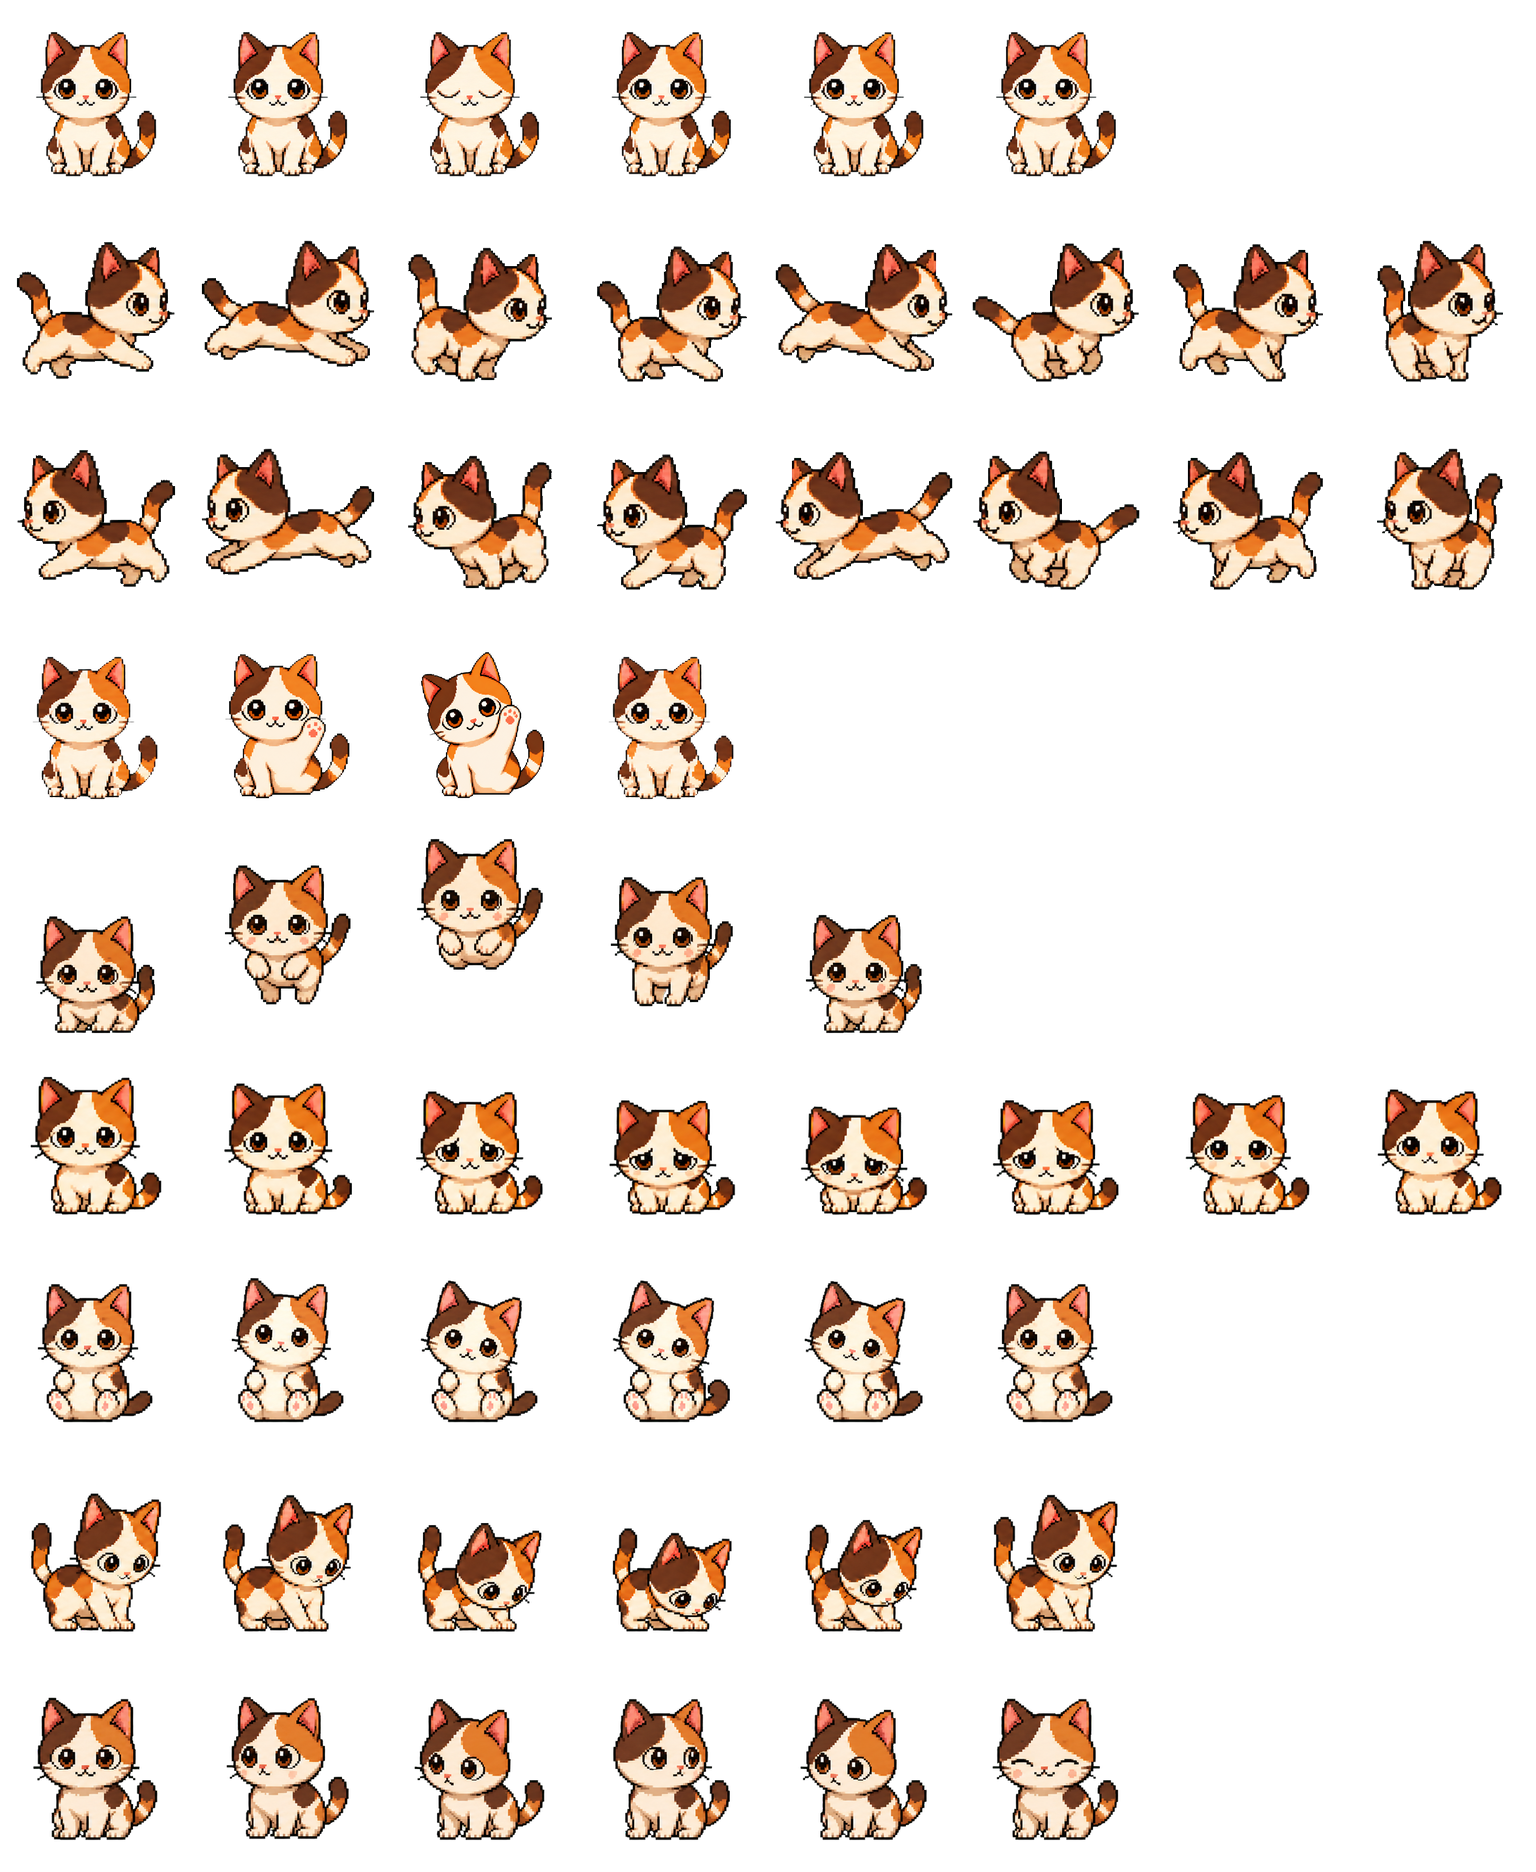
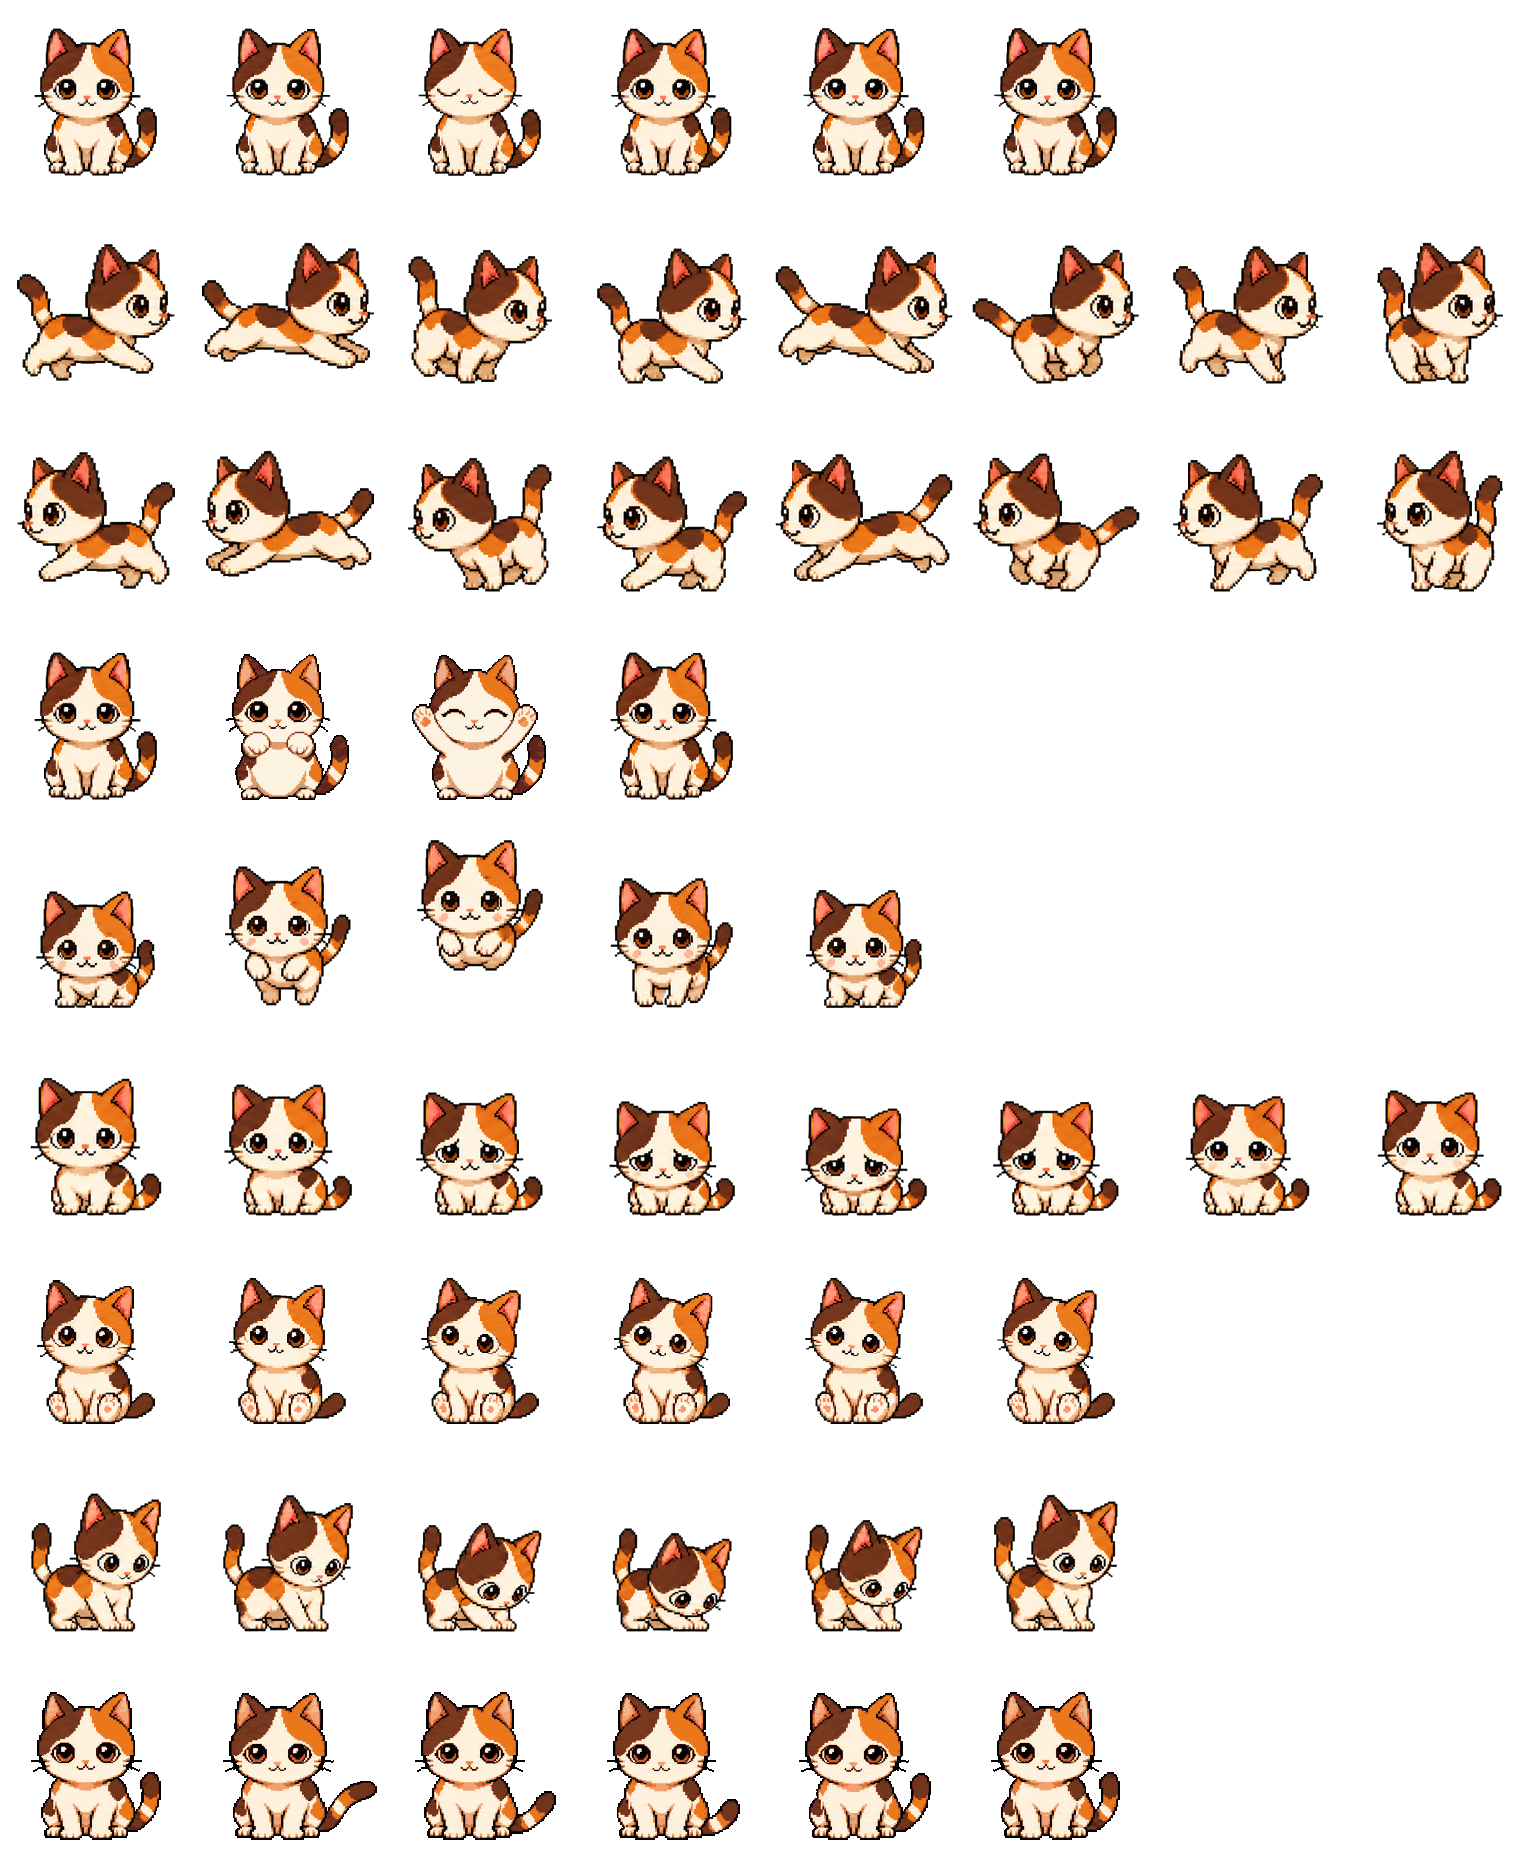
Give the built-in Mochi the v3 art and its extension rows
The built-in ran on the v2-era atlas while the finished v3 package sat outside
the repository. Both webp files here are now that package, byte for byte with
what Codex and Petdex read from ~/.codex/pets/mochi-v3: aligned baselines, one
palette across every row, and the redrawn waving and review rows.

The extension sheet comes with it, so the built-in stops borrowing for the three
states a Petdex sheet has no word for. It sleeps curled on the ground instead of
sitting upright, it hangs when carried, and it nods off before it walks away to
rest. Only `dragged`, `stretch` and `landing` are borrowed now, all deliberately.

Idle has to override the standard 1.10s. Its six frames are one long hold and a
blink, so the standard timing blinks the cat continuously; the package holds
frame zero for 1.2s and spends 0.5s blinking.

The manifest timings are transcribed because a built-in has no package directory
to read, so the test pins each track against the length the package declares,
and checks every extension frame lands on a cell that has art. The sheet has
five spare cells and a wrong index reads one of them silently -- no crash, no
warning, just a pet that plays nothing where it should sit down. Confirmed by
moving `sitting` four cells along, which the test catches.

diff --git a/Tests/RoamlingLogicTests/PetLogicTests.swift b/Tests/RoamlingLogicTests/PetLogicTests.swift
@@ -321,20 +321,60 @@ func petLogicTests() -> [LogicTest] {
                 )
             }
 
-            // A Codex pet never sleeps, sits down to rest, stretches, or gets
-            // picked up, so those are borrowed on purpose and reported as such.
-            // Resting borrows `idle`, not `waiting`: `waiting` means blocked on
-            // the user, and a drowsy pet is not asking for anything.
+            // The extension sheet draws what the nine-row contract has no word
+            // for, so the built-in authors these rather than borrowing.
+            try expect(pet.addressableFrameCount == 88, "extension sheet missing")
+            for (capability, name) in [
+                (PetCapability.sleep, "sleeping"),
+                (.sit, "sitting"),
+                (.caught, "caught"),
+                (.gaze, "gaze")
+            ] {
+                let resolved = pet.resolver.resolution(capability)
+                try expect(resolved.track?.name == name, "\(capability) took \(resolved)")
+                try expect(
+                    resolved.provenance == .authored,
+                    "\(capability) should be the extension sheet's own art"
+                )
+            }
+            // `sitting` is the row that forced a second extension row, so its
+            // frames prove the built-in addresses that row and not the first.
+            let sitting = try require(pet.tracks["sitting"])
+            try expect(sitting.frames.map(\.index) == Array(80...83))
+            try expect(!sitting.loops, "the nod plays once, then the pet walks off")
+            // Every extension frame has to land on a drawn cell. The sheet has
+            // five spare cells and a wrong index reads one of them: no crash, no
+            // warning, just a pet that plays nothing where it should sit down.
+            for name in ["gaze", "sleeping", "caught", "sitting"] {
+                for frame in try require(pet.tracks[name]).frames {
+                    let image = try require(
+                        pet.frameImage(at: frame.index),
+                        "\(name) frame \(frame.index) is unreadable"
+                    )
+                    try expect(hasArt(image), "\(name) frame \(frame.index) is a blank cell")
+                }
+            }
+            // Lengths the shipped `mochi-v3` manifests declare. Transcribed into
+            // the factory because a built-in has no package directory to read,
+            // so they are pinned here to catch the two drifting apart.
+            for (name, seconds) in [
+                ("idle", 1.70), ("sleeping", 2.00), ("caught", 0.60),
+                ("sitting", 2.40), ("gaze", 1.03)
+            ] {
+                let total = try require(pet.tracks[name]).frames.reduce(0) { $0 + $1.duration }
+                try expect(
+                    abs(total - seconds) < 0.02,
+                    "\(name) runs \(total)s, the package says \(seconds)s"
+                )
+            }
+
+            // What is left is borrowed on purpose and reported as such. Resting
+            // borrows `idle`, not `waiting`: `waiting` means blocked on the
+            // user, and a drowsy pet is not asking for anything.
             // Nothing here may fall through to the last-resort placeholder.
             for (capability, name, source) in [
-                (PetCapability.sit, "idle", PetCapability.idle),
-                (.sleep, "idle", .idle),
-                (.caught, "waiting", .paw),
-                (.dragged, "waiting", .paw),
-                (.stretch, "idle", .idle),
-                // Watching the cursor has no Petdex row. It goes quiet rather
-                // than borrowing `review`, which means "about to read a file".
-                (.gaze, "idle", .idle)
+                (PetCapability.dragged, "caught", PetCapability.caught),
+                (.stretch, "idle", .idle)
             ] {
                 let resolved = pet.resolver.resolution(capability)
                 try expect(resolved.track?.name == name, "\(capability) took \(resolved)")
@@ -889,6 +929,27 @@ private func opaqueComponentCount(_ image: CGImage) -> Int? {
 private func distance(from x: Int, to range: ClosedRange<Int>) -> Int {
     if range.contains(x) { return 0 }
     return min(abs(x - range.lowerBound), abs(x - range.upperBound))
+}
+
+/// Whether a frame has any artwork on it at all.
+///
+/// A wrong frame index does not crash: it returns a blank cell, and the pet
+/// plays nothing where it should play something.
+private func hasArt(_ image: CGImage) -> Bool {
+    let width = 24
+    let height = 26
+    var pixels = [UInt8](repeating: 0, count: width * height * 4)
+    guard let context = CGContext(
+        data: &pixels,
+        width: width,
+        height: height,
+        bitsPerComponent: 8,
+        bytesPerRow: width * 4,
+        space: CGColorSpaceCreateDeviceRGB(),
+        bitmapInfo: CGImageAlphaInfo.premultipliedLast.rawValue
+    ) else { return false }
+    context.draw(image, in: CGRect(x: 0, y: 0, width: width, height: height))
+    return stride(from: 3, to: pixels.count, by: 4).contains { pixels[$0] > 8 }
 }
 
 /// The red channel of a 1x1 frame, which is how a numbered fixture says which

diff --git a/Sources/RoamlingPet/MascotPetFactory.swift b/Sources/RoamlingPet/MascotPetFactory.swift
@@ -35,6 +35,7 @@ public enum MascotPetFactory {
     private static let poseDerivedRows = 4
     private static let authoredRows = 7
     private static let standardRows = 9
+    private static let extensionSheetRows = 2
 
     private enum Pose: Int {
         case idle
@@ -70,11 +71,20 @@ public enum MascotPetFactory {
     }
 
     /// Mochi ships the standard 8x9 Codex/Petdex row set rather than the
-    /// seven-row layout the other built-in uses. Every row is authored art, and
-    /// `AnimationResolver` already maps this taxonomy: work resolves to running,
-    /// observe to review, paw to waiting, fail to failed, caught and dragged to
-    /// waiting. Only sit, sleep, and stretch have no row here and fall back to
-    /// idle.
+    /// seven-row layout the other built-in uses, plus the two-row extension
+    /// sheet that carries what Petdex has no word for.
+    ///
+    /// The two sheets are the shipped `mochi-v3` package, and the timings below
+    /// are its manifests transcribed. They are written out rather than parsed
+    /// because a built-in has no package directory to read. Keep them in step
+    /// with the shipped `mochi-v3` package when it changes -- the nine-row test
+    /// pins each track's length against what those manifests declare, and
+    /// checks every extension frame lands on a cell that has art rather than on
+    /// one of the sheet's five spare cells.
+    ///
+    /// `idle` overrides the standard 1.10s. Its six frames are one long hold
+    /// and a blink, so the standard timing blinks the cat continuously; the
+    /// package holds frame zero for 1.2s and spends 0.5s on the blink.
     private static func makeStandardMochi(atlas: CGImage) -> PetAsset {
         let manifest = PetManifest(
             id: BuiltInPetKind.mochi.manifestID,
@@ -89,13 +99,15 @@ public enum MascotPetFactory {
             )
         )
         var tracks = StandardPetAnimations.tracks(columns: columns)
-        let waveRow = 3 * columns
         let jumpRow = 4 * columns
 
         // A finished turn waves, and this sheet authors that row, so nothing
         // needs writing out here: `.celebrate` resolves straight to `waving` at
         // the Petdex length. `jumping` is left alone -- it opens a turn.
-        _ = waveRow
+
+        tracks["idle"] = track("idle", frames: [
+            (0, 1.20), (1, 0.10), (2, 0.10), (3, 0.10), (4, 0.10), (5, 0.10)
+        ])
 
         // Without this, `.landing` falls through to jumping and the pet throws a
         // full celebration every time it is dropped.
@@ -103,6 +115,31 @@ public enum MascotPetFactory {
             (jumpRow + 4, 0.10), (jumpRow + 3, 0.12),
             (jumpRow + 2, 0.10), (jumpRow, 0.18)
         ], loops: false)
+
+        var extensionAtlas: CGImage?
+        var extensionColumns = 0
+        var extensionRows = 0
+        if let sheet = loadSheet(named: "mochi-extension-atlas"),
+           sheet.width == cellWidth * columns,
+           sheet.height == cellHeight * extensionSheetRows {
+            extensionAtlas = sheet
+            extensionColumns = columns
+            extensionRows = extensionSheetRows
+
+            // Frame indices continue past the package grid, so the first cell of
+            // the extension sheet is 72. `gaze` is the exception: it points back
+            // into the package's own review row and is played faster the closer
+            // the pointer gets, so the tail flick doubles as watching.
+            let base = columns * standardRows
+            tracks["gaze"] = track("gaze", frames:
+                (0..<6).map { (8 * columns + $0, 0.172) })
+            tracks["sleeping"] = track("sleeping", frames:
+                (0..<3).map { (base + $0, 0.667) })
+            tracks["caught"] = track("caught", frames:
+                (3..<7).map { (base + $0, 0.150) })
+            tracks["sitting"] = track("sitting", frames:
+                (0..<4).map { (base + columns + $0, 0.600) }, loops: false)
+        }
 
         return PetAsset(
             manifest: manifest,
@@ -112,7 +149,14 @@ public enum MascotPetFactory {
             frameHeight: cellHeight,
             columns: columns,
             rows: standardRows,
-            tracks: tracks
+            tracks: tracks,
+            behaviorMappings: extensionAtlas == nil ? [:] : [
+                "gaze": "gaze", "sleep": "sleeping",
+                "caught": "caught", "sit": "sitting"
+            ],
+            extensionAtlas: extensionAtlas,
+            extensionColumns: extensionColumns,
+            extensionRows: extensionRows
         )
     }
 

diff --git a/Sources/RoamlingPet/Resources/BuiltInPets/README.md b/Sources/RoamlingPet/Resources/BuiltInPets/README.md
@@ -28,18 +28,33 @@ without modification.
 
 `mochi-standard-atlas.webp` is Mochi's runtime asset and uses the standard
 8×9 Codex/Petdex row set instead: idle, running right, running left, waving,
-jumping, failed, waiting, running, review. It was produced with the `hatch-pet`
-workflow on 2026-08-29, one animation row at a time, with every row reviewed and
-approved before the next. It replaces an earlier seven-row Mochi atlas that was
-rejected on 2026-08-27 for detached alpha fragments left by slicing a generated
-strip that was not on an exact equal-cell grid.
+jumping, failed, waiting, running, review. It replaces an earlier seven-row Mochi
+atlas that was rejected on 2026-08-27 for detached alpha fragments left by
+slicing a generated strip that was not on an exact equal-cell grid.
 
-Mochi therefore has no sit, sleep, or stretch row; `AnimationResolver` falls those
-back to idle. Every other capability lands on real art: work on running, observe
-on review, paw on waving, fail on failed, caught and dragged on waiting. The
-factory overrides two tracks from the standard set — a 2.2 second one-shot
-celebration built from the jumping row, and a short landing built from the same
-row so a drop does not replay the celebration.
+Both webp files here are the shipped `mochi-v3` package, copied in on
+2026-08-31 — the same bytes Codex and Petdex read from `~/.codex/pets/mochi-v3`.
+Each row was reviewed and approved on its own before the next was drawn, and the
+approval record with the reasoning for each is `output/v3/approvals.json`.
+
+`mochi-extension-atlas.webp` is that package's `roamling.json` sheet: 8×2, whose
+cells continue the frame index past the package grid, so cell 72 is index 72.
+It draws what the nine-row contract has no word for — sleeping curled on the
+ground (72–74), being carried (75–78), and nodding off (80–83). `gaze` is in the
+same manifest but draws nothing: it plays the package's own review row faster the
+closer the pointer gets.
+
+So Mochi borrows only three things now. `dragged` takes the caught pose,
+`stretch` takes idle, and `landing` takes the jumping row on purpose. `sit` and
+`sleep` used to fall back to `waiting`, which means "blocked on the user", and a
+drowsy pet looked like it was asking for approval; they now have their own rows
+here and fall back to idle elsewhere.
+
+The factory writes out two tracks the standard set gets wrong for this art. Idle
+overrides the standard 1.10s: its six frames are one long hold and a blink, so
+the standard timing blinks the cat continuously, and the package holds frame
+zero for 1.2s instead. Landing is built from the jumping row so a drop does not
+replay the celebration.
 
 Core prompt, Mochi:
 
